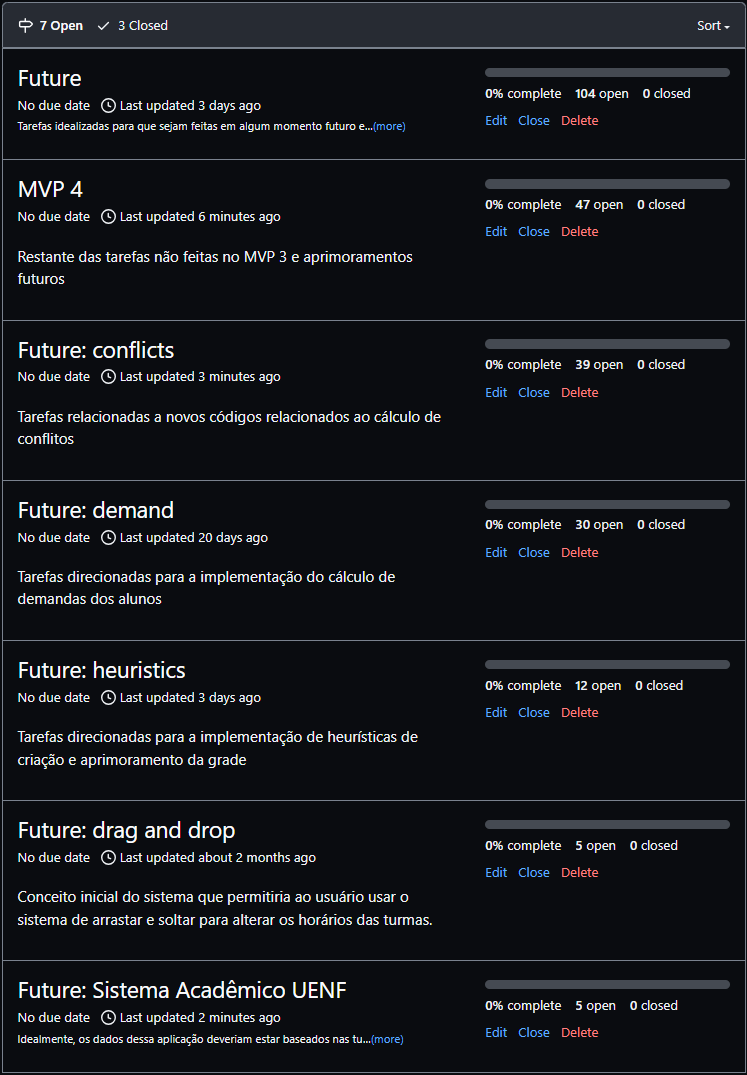
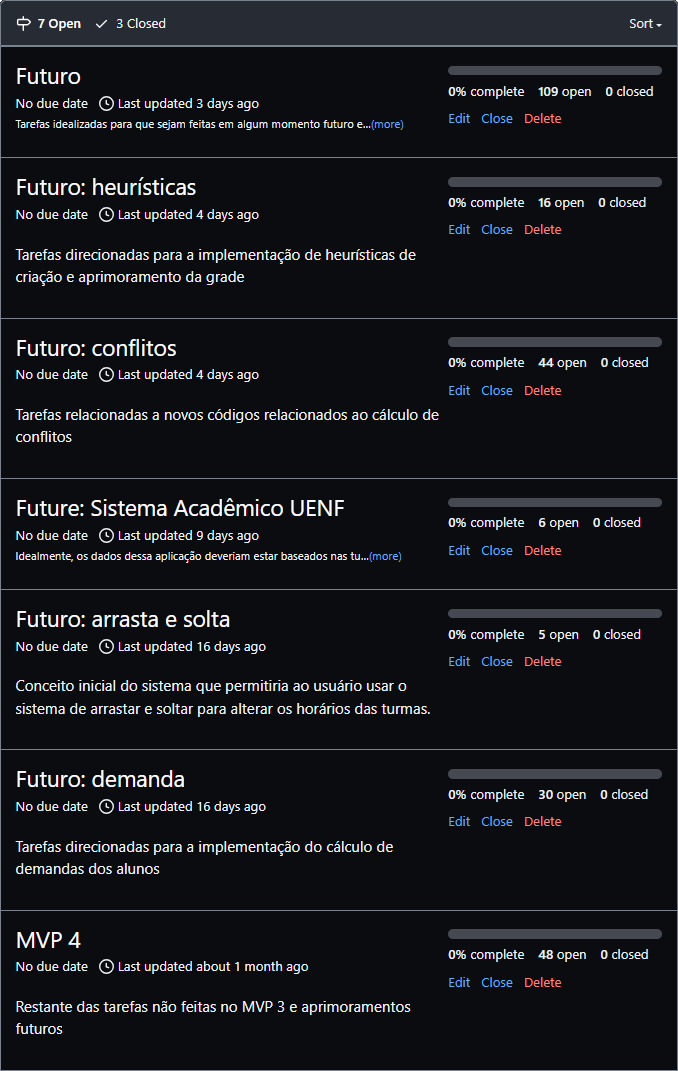
atualizando e sincronizando as informações do GItHub Projects

diff --git a/Files/Texto/LaTeX/files/tex/2.02!5-desenvolvimento.tex b/Files/Texto/LaTeX/files/tex/2.02!5-desenvolvimento.tex
@@ -238,7 +238,7 @@ Tendo este novo sistema de tarefas em prática, foi possível planejar melhor qu
 
 As tarefas foram inicialmente divididas em três principais categorias: \textit{Status}, \textit{Página} e \textit{Sequência}. O \textit{Status} reflete o andamento do código da tarefa, podendo ser este andamento \textbf{Pendente}, \textbf{Desenvolvendo}, ou \textbf{Concluído}. A \textit{Página} reflete em qual página do sistema a tarefa se encontra, e a \textit{Sequência} reflete a ordem de prioridade da tarefa.
 
-Citando mais detalhes da \autoref{fig:GitHubProjectsTable}, temos à esquerda a numeração das tarefas, seguido do título da tarefa que descreve em poucas palavras sobre o que se trata. ao final do título há uma combinação do símbolo ``\#'' e uma numeração. Essa numeração representa a sequência de criação das tarefas, código esse que pode ser usado como referência entre as tarefas, assim permitindo que tarefas correlacionadas tenham um link direto entre elas. Na próxima coluna está o \textit{Status} da tarefa, seguido de duas colunas, \textbf{\textit{Milestone}} e \textbf{\textit{Labels}} que só foram criadas \hyperref[ssssec:Marcos e Etiquetas]{posteriormente}. Finalizando temos a coluna \textbf{Página} que primariamente distingue em qual página do sistema a tarefa se encontra, mas que também contém algumas categorias que fogem do conceito de página, como por exemplo é o caso das categorias ``Componente'', ``Sistema'' e ``Banco de Dados''. Por último há a coluna \textit{Assignees} que indica quem é o responsável pela tarefa; nesse caso, todas as tarefas que estão em andamento ou concluídas foram atribuídas ao mesmo responsável.
+Citando mais detalhes da \autoref{fig:GitHubProjectsTable}, temos à esquerda a numeração das tarefas, seguido do título da tarefa que descreve em poucas palavras sobre o que se trata. ao final do título há uma combinação do símbolo ``\#'' e uma numeração. Essa numeração representa a sequência de criação das tarefas, código esse que pode ser usado como referência entre as tarefas, assim permitindo que tarefas correlacionadas tenham um link direto entre elas. Na próxima coluna está o \textit{Status} da tarefa, seguido de duas colunas, \textbf{\textit{Milestone}} e \textbf{\textit{Labels}} que só foram criadas \hyperref[ssssec:Marcos e Etiquetas]{posteriormente}. Finalizando temos a coluna \textbf{Página} que primariamente distingue em qual página do sistema a tarefa se encontra, mas que também contém algumas categorias que fogem do conceito de página, como por exemplo é o caso das categorias ``Componente'', ``Sistema'' e ``Banco de Dados''. Por último há a coluna \textit{Assignees} que indica quem é o responsável pela tarefa; nesse caso, todas as tarefas que estão em andamento ou que já se encontram concluídas foram atribuídas ao mesmo responsável.
 
 \subsubsection*{Permanência na alteração dos dados} \label{sssec:Permanência dos Dados}
 
@@ -336,13 +336,14 @@ Enquanto a \autoref{fig:ProjectsClosedMilestones} mostra os marcos que já foram
   \item \textbf{MVP 1}: foram concluídas na primeira versão;
   \item \textbf{MVP 2}: foram concluídas na segunda versão;
   \item \textbf{MVP 3}: foram concluídas na terceira versão;
+  \item \textbf{MVP 4}: planejadas para a próxima versão a ser desenvolvida;
   \item \textbf{Futuro}: foram planejadas para o futuro do sistema;
         \begin{enumerate}
-          \item \textbf{Demandas}: visam calcular a demanda dos alunos por disciplinas;
-          \item \textbf{Conflitos}: visam aprimorar a visualização, qualidade e/ou variedade de conflitos;
           \item \textbf{Heurísticas}: visam aprimorar a alocação de turmas através de heurísticas;
+          \item \textbf{Conflitos}: visam aprimorar a visualização, qualidade e/ou variedade de conflitos;
+          \item \textbf{Integração com o Sistema Acadêmico UENF}: visam a integração do atual sistema com o sistema acadêmico da UENF.
           \item \textbf{Arrasta e solta}: visam aprimorar a alocação de turmas através de um sistema de arrastar e soltar;
-          \item \textbf{Integração com o Sistema Acadêmico}: visam a integração do atual sistema com o sistema acadêmico da UENF.
+          \item \textbf{Demandas}: visam calcular a demanda dos alunos por disciplinas;
         \end{enumerate}
 \end{enumerate}
 
@@ -357,13 +358,13 @@ No Projects, também foram adicionadas as \textbf{etiquetas} que distinguem as t
 \end{MyCenteredFigure}
 
 \begin{enumerate}
+  \item \textbf{Nova função}: funcionalidades que ainda não foram implementadas;
+  \item \textbf{Qualidade de vida}: melhorias que não são necessárias, mas que aprimoram o processo de desenvolvimento;
   \item \textbf{UX}: aprimoramento da experiência do usuário;
   \item \textbf{Bug}: correção de bugs;
   \item \textbf{Pergunta}: dúvidas sobre a validade da tarefa;
-  \item \textbf{Duplicada}: já foi criada antes e que foi descartada;
   \item \textbf{Abandonada}: quando criada parecia interessante, mas que se decidiu por não implementar;
-  \item \textbf{Qualidade de vida}: melhorias que não são necessárias, mas que aprimoram o processo de desenvolvimento;
-  \item \textbf{Nova funcionalidade}: funcionalidades que ainda não foram implementadas;
+  \item \textbf{Duplicata}: já foi criada antes e que foi descartada;
 \end{enumerate}
 
 \subsubsubsection*{Gráficos} \label{ssssec:Gráficos}
